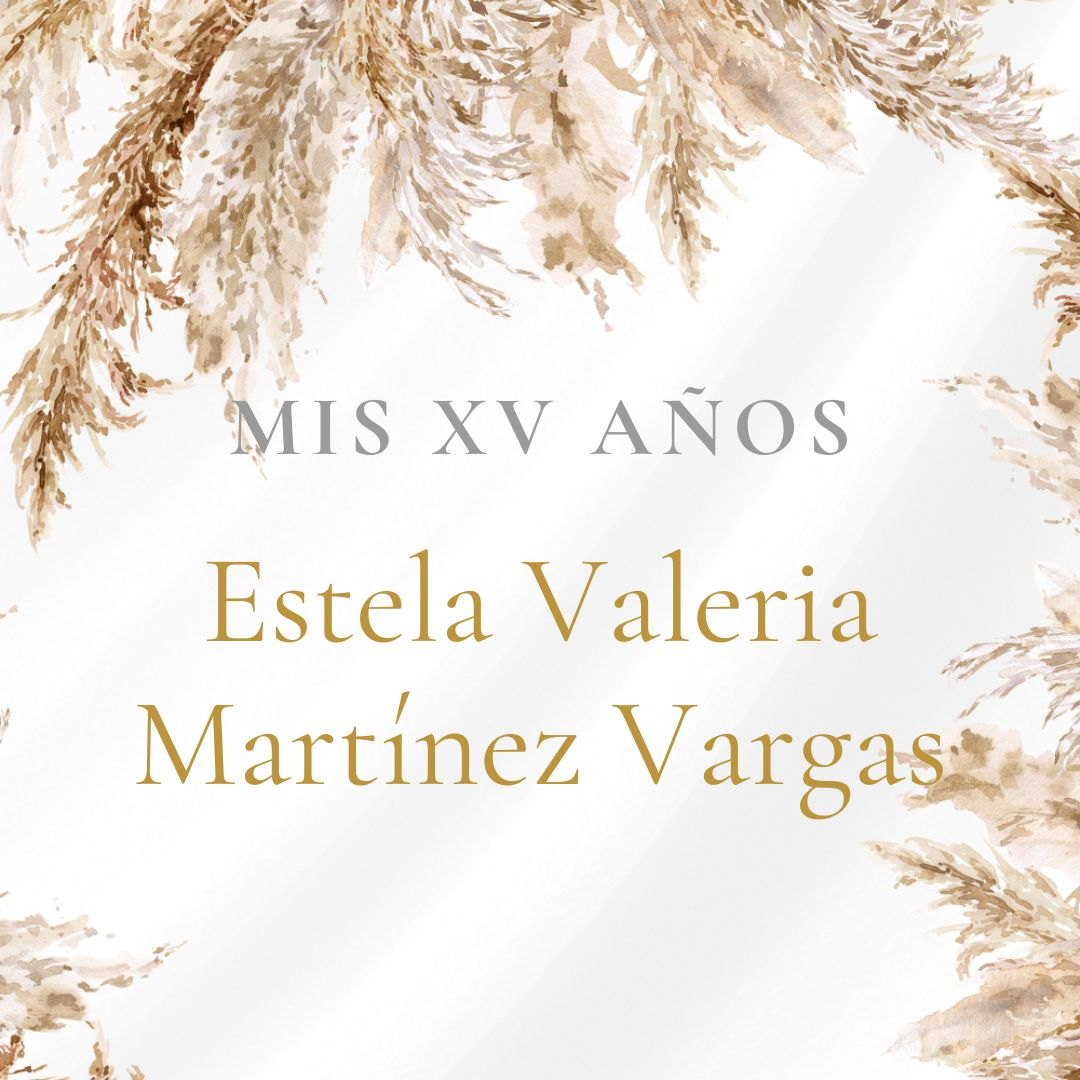
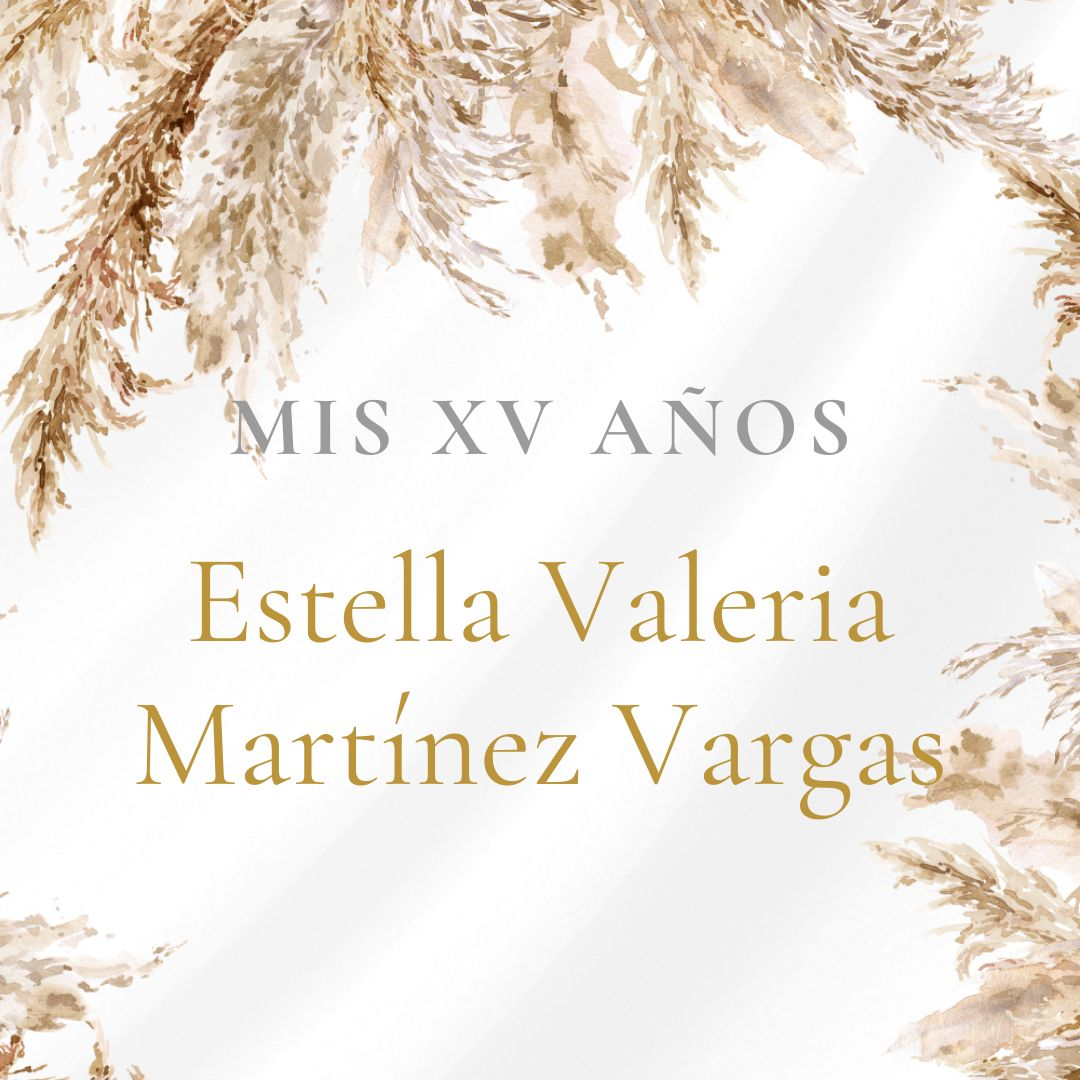
Add files via upload

Changed region(s): [[0.4889, 0.4889, 0.825, 0.6111], [0.1833, 0.4889, 0.4583, 0.6111]]

diff --git a/inicio.html b/inicio.html
@@ -11,7 +11,7 @@
         <meta name="description" content="Te invitamos a ser parte de este momento tan especial."/>
         <meta property="og:locale" content="es_ES"/>
         <meta property="og:type" content="website"/>
-        <meta property="og:title" content="Estela Vargas - ¡MIS XV AÑOS!"/>
+        <meta property="og:title" content="Estella Vargas - ¡MIS XV AÑOS!"/>
         <meta property="og:description" content="Te invitamos a ser parte de este momento tan especial."/>
         <meta property="og:url" content="https://mis-xv.github.io/estelavargas/inicio.html"/>
         <meta property="article:modified_time" content="2023-02-19T17:24:46+00:00"/>
@@ -27,7 +27,7 @@
           {
               "@type": "Organization",
               "@id": "https://mis-xv.github.io/estelavargas/inicio.html/#/schema/Organization/1",
-              "name": "Estela Vargas - ¡MIS XV AÑOS!",
+              "name": "Estella Vargas - ¡MIS XV AÑOS!",
               "url": "https://mis-xv.github.io/estelavargas/inicio.html",
               "sameAs": [
               ],
@@ -48,7 +48,7 @@
               "@type": "WebSite",
               "@id": "https://mis-xv.github.io/estelavargas/inicio.html/#/schema/WebSite/1",
               "url": "https://mis-xv.github.io/estelavargas/inicio.html",
-              "name": "Estela Vargas - ¡MIS XV AÑOS!",
+              "name": "Estella Vargas - ¡MIS XV AÑOS!",
               "publisher": {
                   "@id": "https://mis-xv.github.io/estelavargas/inicio.html/#/schema/Organization/1"
               },
@@ -111,7 +111,7 @@
             $('.loader_bg').fadeToggle();
         }, 2000);
     </script>
-	<title>Estela Vargas - ¡MIS XV AÑOS!</title>
+	<title>Estella Vargas - ¡MIS XV AÑOS!</title>
 	 <link rel="shortcut icon" href="img/CODIGO LOGOTIPO.png"/>
 </head>
 <!--<body>
@@ -136,7 +136,7 @@
                         <div class="text-center " > 
         
     </div>   
-                         <h5 class='nombres col-lg-12 text-center' >Estela Valeria Martínez Vargas</h5> 
+                         <h5 class='nombres col-lg-12 text-center' >Estella Valeria Martínez Vargas</h5> 
                         <!-- <div class="row justify-content-center col-12" style="margin: 0 auto" >
                          <img class="leon col-4 col-md-2 " id="leon" style="" src="img/leon3.png" >
                      </div>-->
